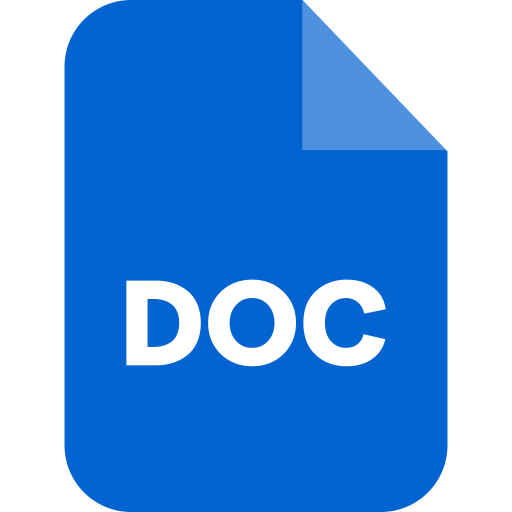
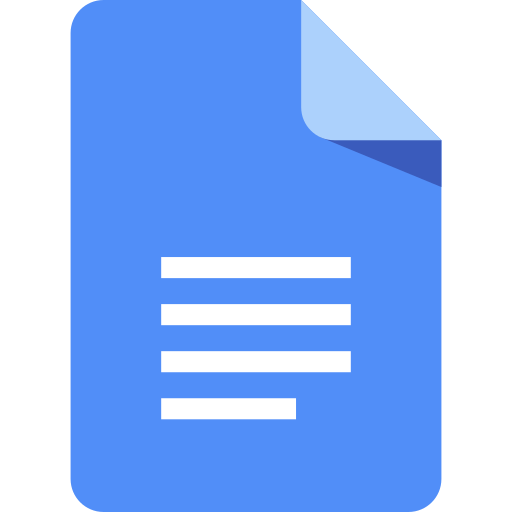
Update

diff --git a/jts_frontend/src/components/FilePreview.vue b/jts_frontend/src/components/FilePreview.vue
@@ -1,23 +1,10 @@
 <template>
   <component :is="tag" class="file-preview">
     <button @click="$emit('remove', file)" class="close-icon">&times;</button>
-    <img :src="file.url" :alt="file.file.name" :title="file.file.name" />
-
-    <!--  <span
-      class="status-indicator loading-indicator"
-      v-show="file.status == 'loading'"
-      >In Progress</span
-    >
-    <span
-      class="status-indicator success-indicator"
-      v-show="file.status == true"
-      >Uploaded</span
-    >
-    <span
-      class="status-indicator failure-indicator"
-      v-show="file.status == false"
-      >Error</span
-    > -->
+    <div class="image-container">
+      <img :src="file.url" :alt="file.file.name" :title="file.file.name" />
+      <span>{{ file.file.name }}</span>
+    </div>
   </component>
 </template>
 
@@ -36,45 +23,45 @@ export default {
 
 <style scoped>
 .file-preview {
-  width: 20%;
+  width: 150px;
   margin: 1rem;
   position: relative;
   overflow: hidden;
+}
+.image-container {
+  display: flex;
+  flex-direction: column;
+  align-items: center;
+}
 
-  img {
-    width: 100%;
-    height: 100%;
-    display: block;
-    object-fit: cover;
-  }
+span {
+  font-size: 12px;
+  text-align: center;
+}
 
-  .close-icon,
-  .status-indicator {
-    --size: 20px;
-    position: absolute;
-    line-height: var(--size);
-    height: var(--size);
-    border-radius: var(--size);
-    box-shadow: 0 0 5px currentColor;
-    right: 0.25rem;
-    appearance: none;
-    border: 0;
-    padding: 0;
-  }
+img {
+  width: 100px;
+  height: 100px;
+  display: block;
+  object-fit: cover;
+}
 
-  .close-icon {
-    width: var(--size);
-    font-size: var(--size);
-    background: #933;
-    color: #fff;
-    top: 0.25rem;
-    cursor: pointer;
-  }
-
-  .status-indicator {
-    font-size: calc(0.75 * var(--size));
-    bottom: 0.25rem;
-    padding: 0 10px;
-  }
+.close-icon {
+  width: var(--size);
+  font-size: var(--size);
+  background: #933;
+  color: #fff;
+  top: 0.25rem;
+  cursor: pointer;
+  --size: 20px;
+  position: absolute;
+  line-height: var(--size);
+  height: var(--size);
+  border-radius: var(--size);
+  box-shadow: 0 0 5px currentColor;
+  right: 1px;
+  appearance: none;
+  border: 0;
+  padding: 0;
 }
 </style>

diff --git a/jts_frontend/src/util/helper.js b/jts_frontend/src/util/helper.js
@@ -7,7 +7,11 @@ const setIcon = (file) => {
   switch (file.name.split(".").pop()) {
     case EXTENSIONS.DOC:
       return DocsIcon;
-    case EXTENSIONS.EXCEL:
+    case EXTENSIONS.DOCX:
+      return DocsIcon;
+    case EXTENSIONS.XLS:
+      return ExcelIcon;
+    case EXTENSIONS.XLSX:
       return ExcelIcon;
     case EXTENSIONS.PDF:
       return PdfIcon;

diff --git a/jts_frontend/src/models/File.js b/jts_frontend/src/models/File.js
@@ -1,11 +1,9 @@
-import { FILE_STATUS } from "@/util/constant";
 import { setIcon } from "@/util/helper";
 class File {
   constructor(file) {
     this.file = file;
     this.id = `${file.name}-${file.size}-${file.lastModified}-${file.type}`;
     this.url = setIcon(file);
-    this.status = FILE_STATUS.INITIAL;
   }
 }
 

diff --git a/jts_frontend/src/util/constant.js b/jts_frontend/src/util/constant.js
@@ -4,9 +4,11 @@ const FILE_STATUS = Object.freeze({
 });
 
 const EXTENSIONS = Object.freeze({
-  DOC: "docx",
+  DOCX: "docx",
+  DOC: "doc",
   PDF: "pdf",
-  EXCEL: "xls",
+  XLS: "xls",
+  XLSX: "xlsx",
 });
 
 export { FILE_STATUS, EXTENSIONS };
